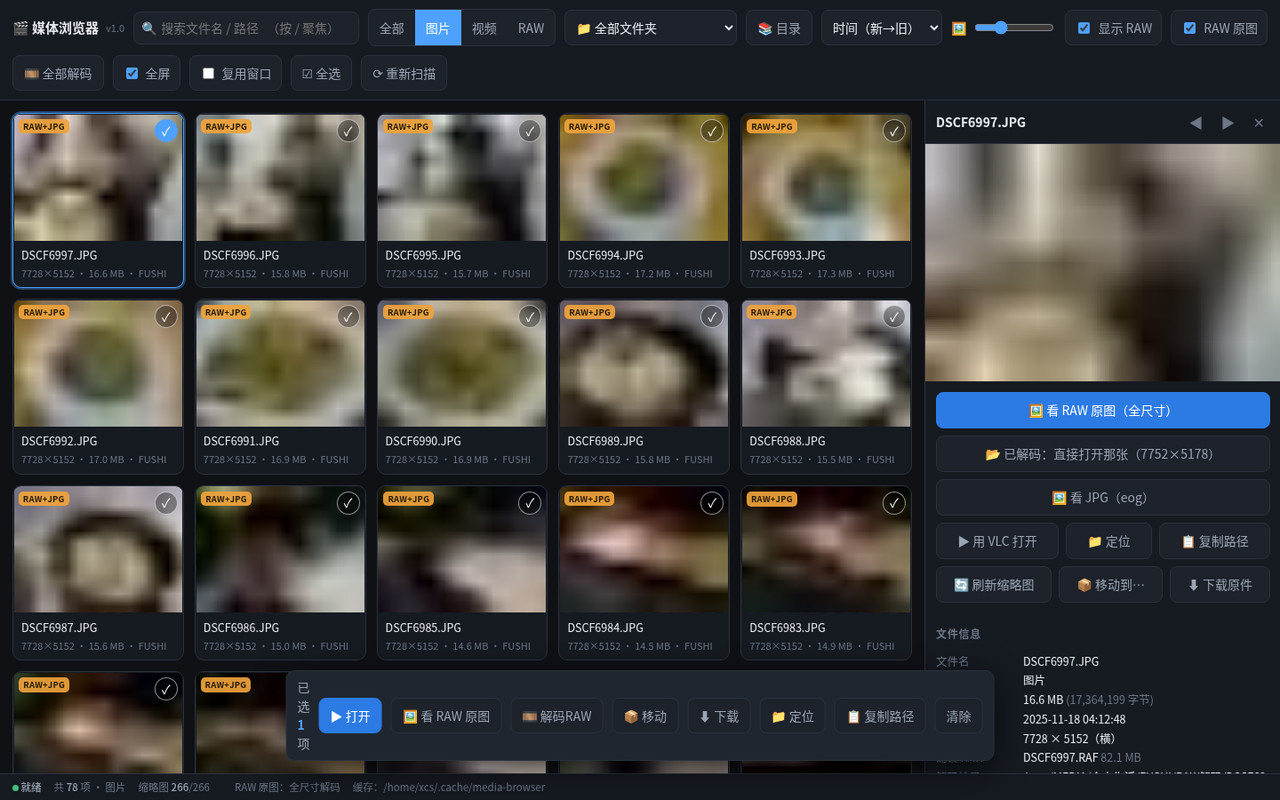
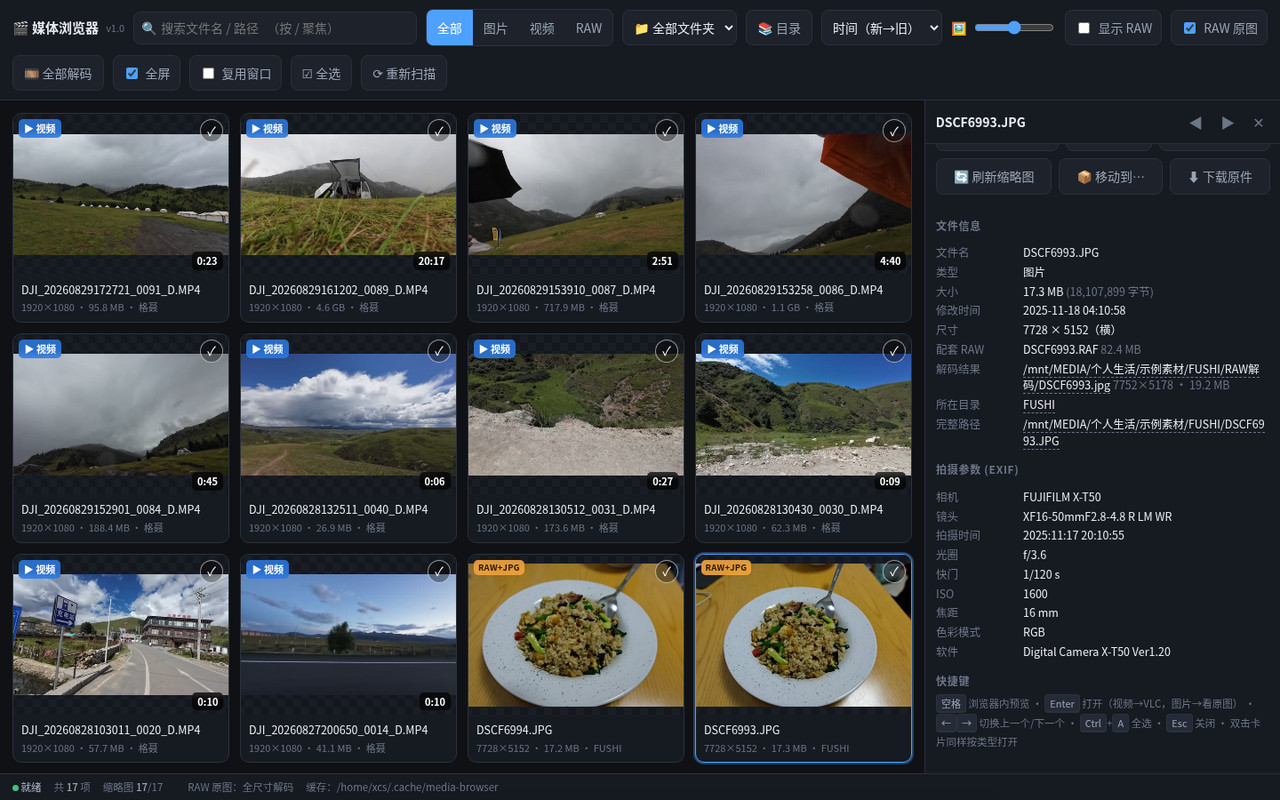
docs: 换成不打扰隐私的实拍截图（不打码，改用不含人物的示例素材）
原来的截图把照片全打了马赛克，缩略图墙、详情面板基本看不出内容，
README 的"图文结合"就失去意义了。

改成：截取一组示例素材（格聂风景视频 + 富士拍的静物美食照，都不含人物），
按原样截屏，版面、角标、元信息全部真实可见。

- 01 桌面缩略图墙（5 列，含 RAW+JPG 角标与时长）
- 02 桌面详情面板（尺寸/大小/修改时间）
- 03 RAW：配套 RAW、解码结果、所在目录、完整路径 + 完整 EXIF（X-T50 / 镜头 / 光圈 / 快门 / ISO）
- 04 手机缩略图墙（局域网客户端视角，三列）
- 05 手机整屏详情
- 06 目录抽屉保持不变（不含媒体）

diff --git a/README.md b/README.md
@@ -57,7 +57,8 @@
 - 目录窗口里除了本机路径，还能填**另一台机器的媒体浏览器地址**（`http://192.168.x.x:8899`），
   两台的素材合并成一堵墙，能看能下
 
-> 截图里的照片都做过马赛克处理，不涉及真实素材。
+* 截图用的是一组**示例素材**（风景、静物，**不含人物**）—— 你自己用起来就是自己的文件夹、自己的文件名。
+> 手机那两张是**局域网客户端**视角（所以底栏有「🔒 局域网模式」、没有「全部解码」这类只在本机做的操作）。
 
 ---
 
@@ -687,7 +688,7 @@ macOS 用系统自带的 `sips`/`qlmanage`/`mdls`，Windows 用 PowerShell + .NE
 
 几点说明：
 
-- README 里的截图都做过**马赛克处理**，不包含真实素材
+- README 里的截图取自一组**示例素材**（风景与静物，不含人物）
 - `config.json` 里有本机路径和局域网口令，**已排除在仓库外**（`.gitignore`）；
   要一份能直接抄的模板看 [config.example.json](config.example.json)
 - 文档和界面提示里出现的 IP 一律写成 `192.168.x.x` 这种占位形式（**真实内网 IP 不外露**），
@@ -715,4 +716,4 @@ step. Pillow, ffmpeg, VLC and rawpy are all optional: the tool picks whatever th
 (macOS `sips`/`qlmanage`/`mdls`, Windows PowerShell/.NET, Linux `eog`/`zenity`/`gio`) and degrades
 gracefully — run `./启动.sh --check` to see what it found.
 
-MIT licensed. Screenshots are pixelated; no real media is included.
+MIT licensed. Screenshots show a small sample set (landscapes and still life, no people).
